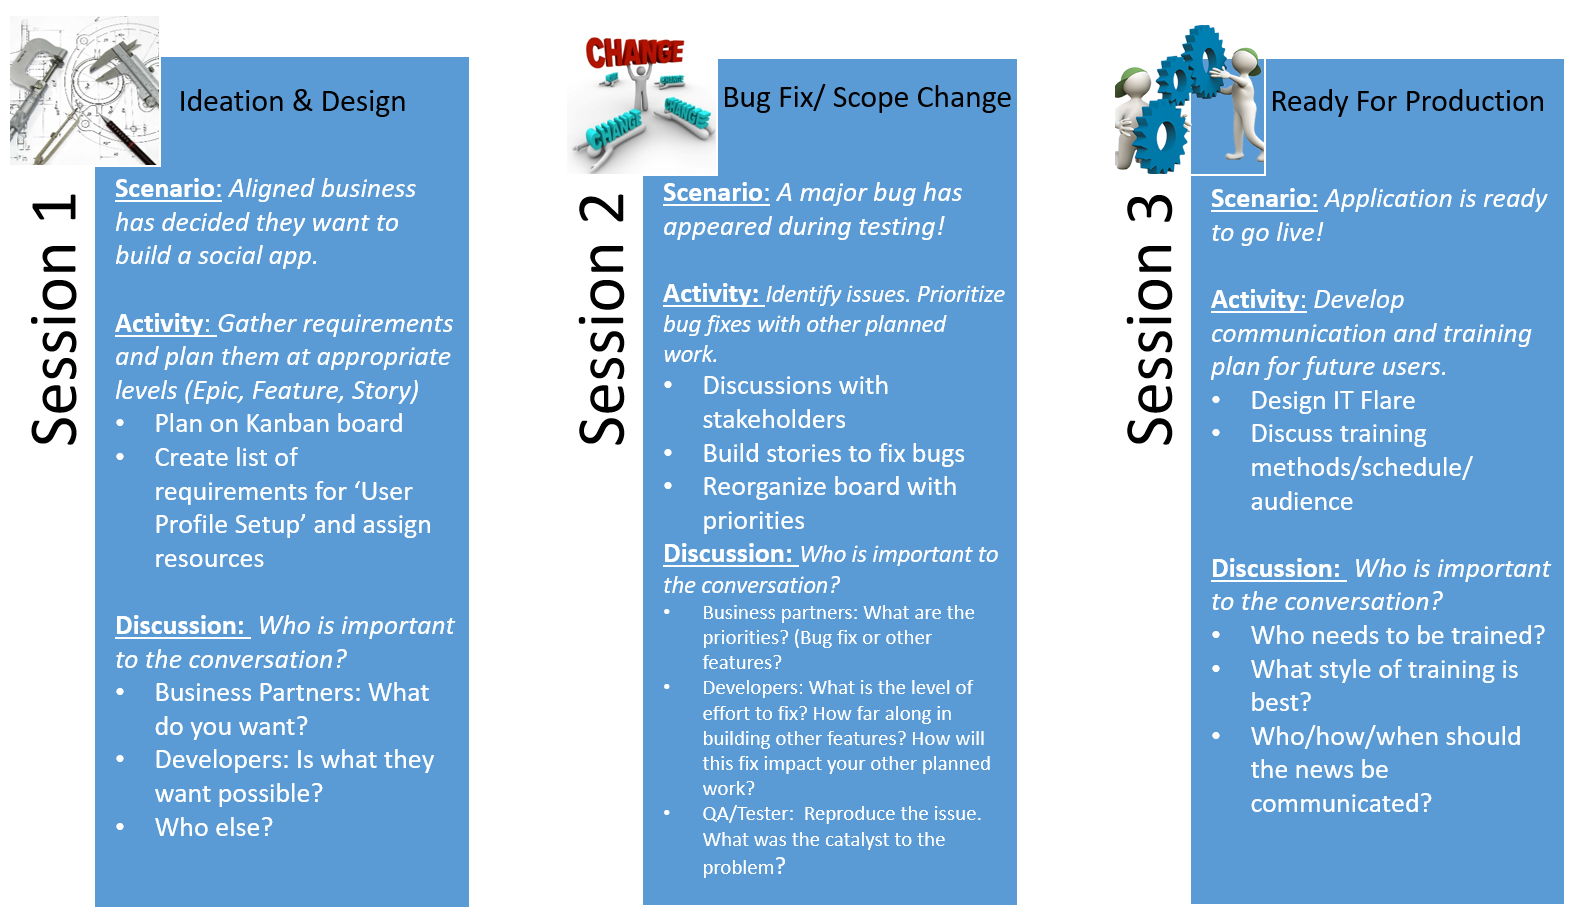
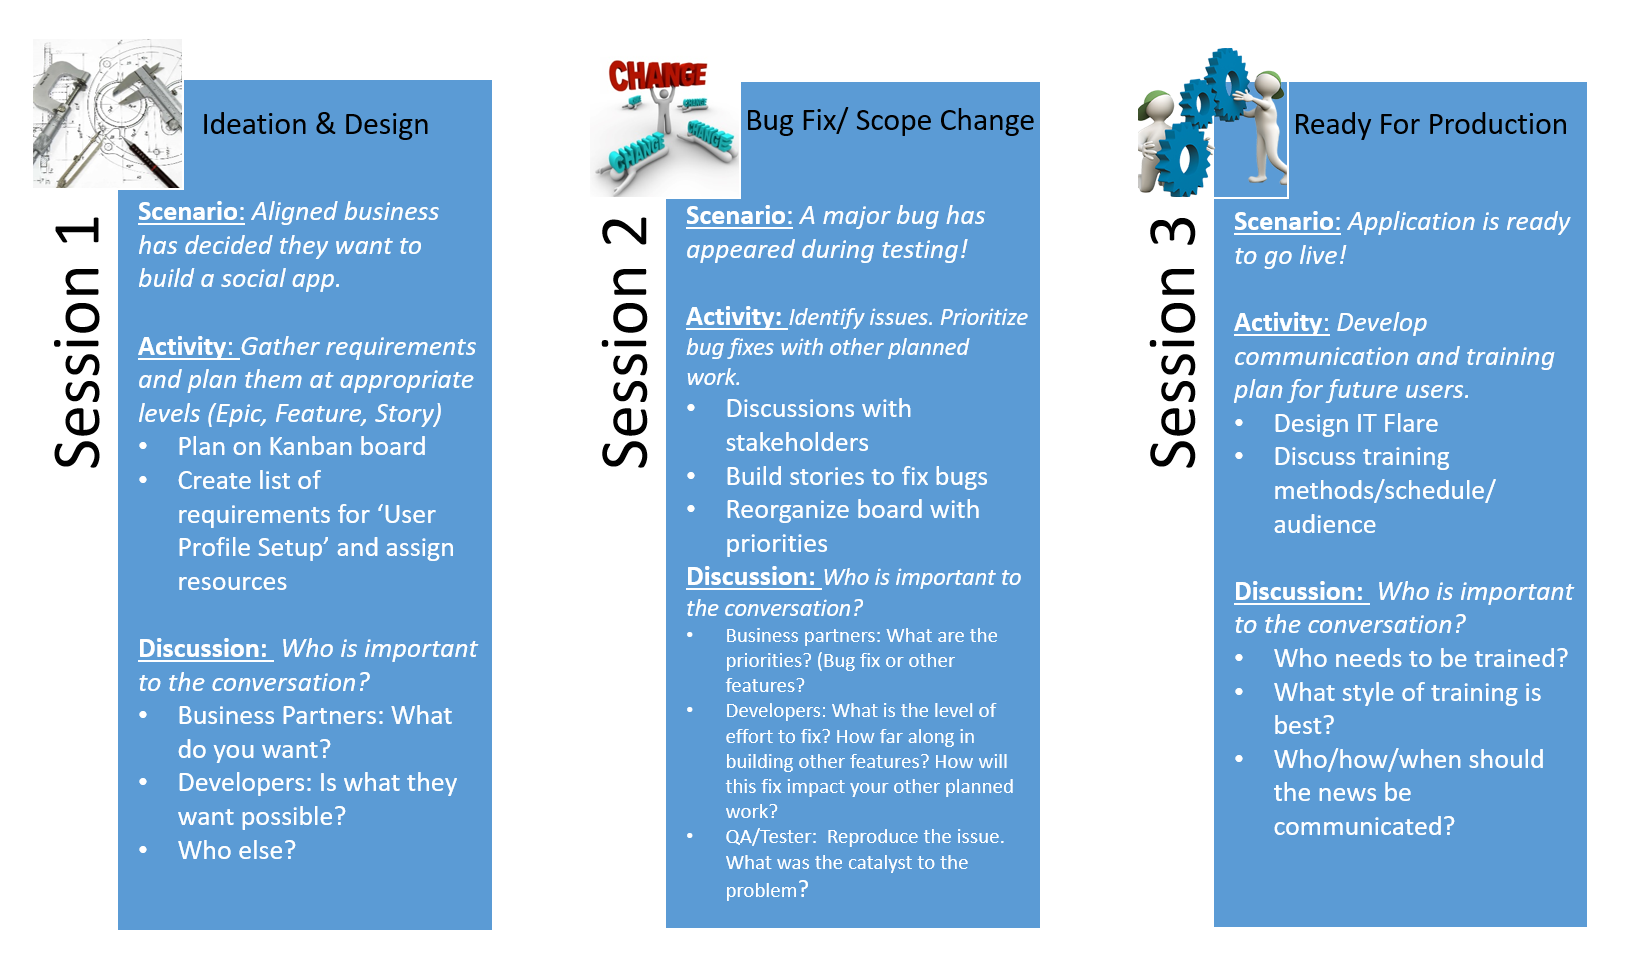
margin in png

Changed region(s): [[0.0, 0.0304, 0.3115, 1.0], [0.3427, 0.0304, 0.6542, 1.0], [0.6853, 0.0304, 0.9968, 1.0]]

diff --git a/SaAlt.html b/SaAlt.html
@@ -15,7 +15,7 @@
     <section>
 
         <h1>Systems Analysis Workshop</h1>
-            <img src="images/SaSessionsCombo.png" alt="Ideation and Design" style="margin: 15px 0; width: 100%; height: auto;" />
+            <img src="images/SaSessionsCombo.png" alt="Ideation and Design" style="width: 100%; height: auto;" />
         
     </section>
 </body>
